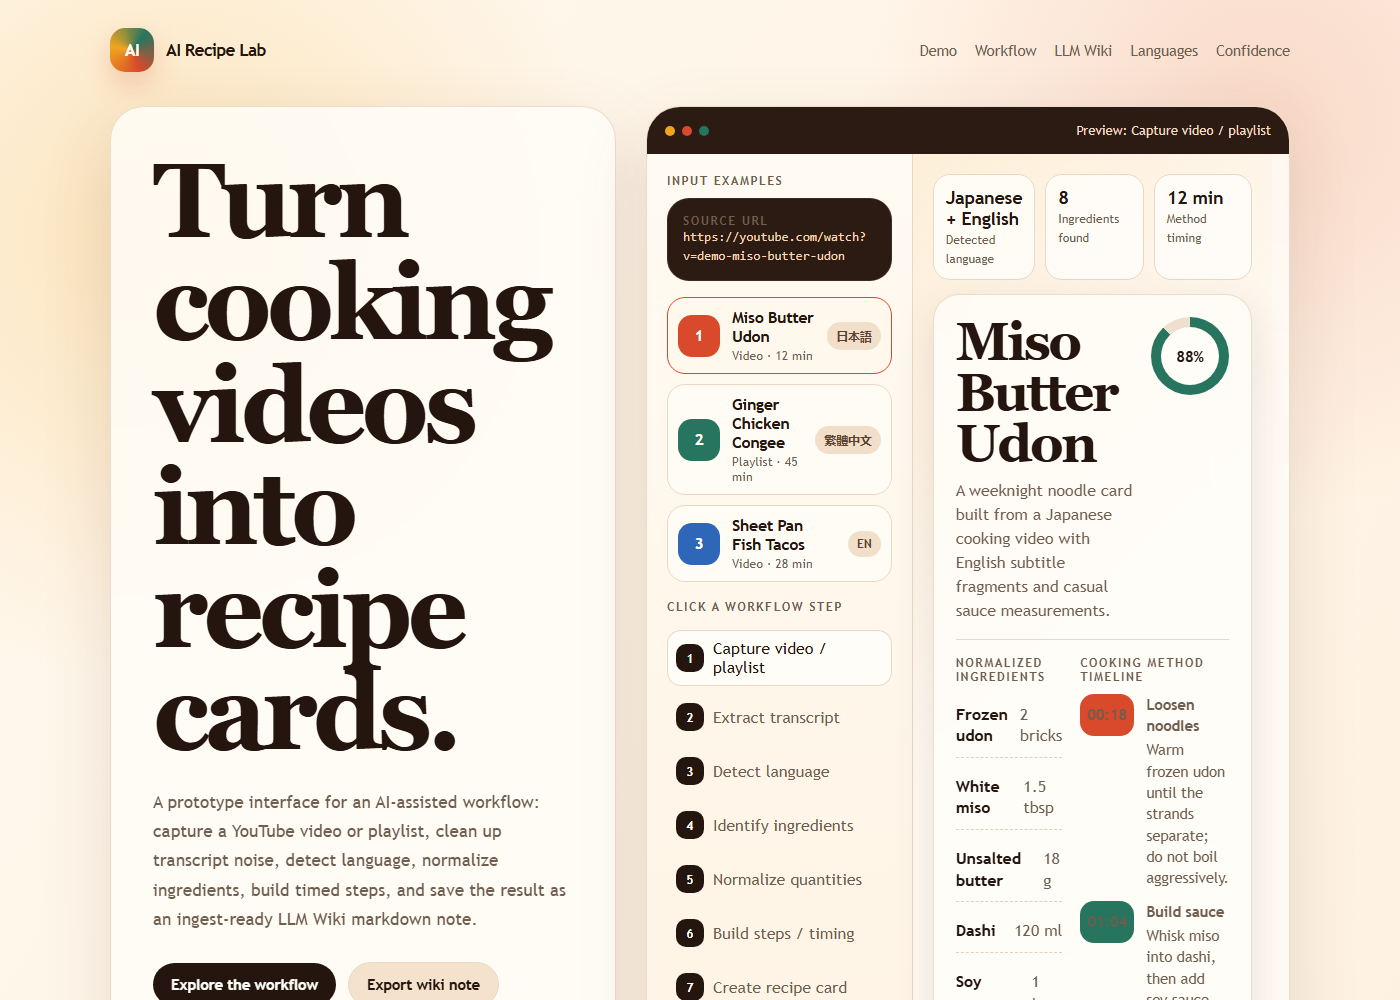
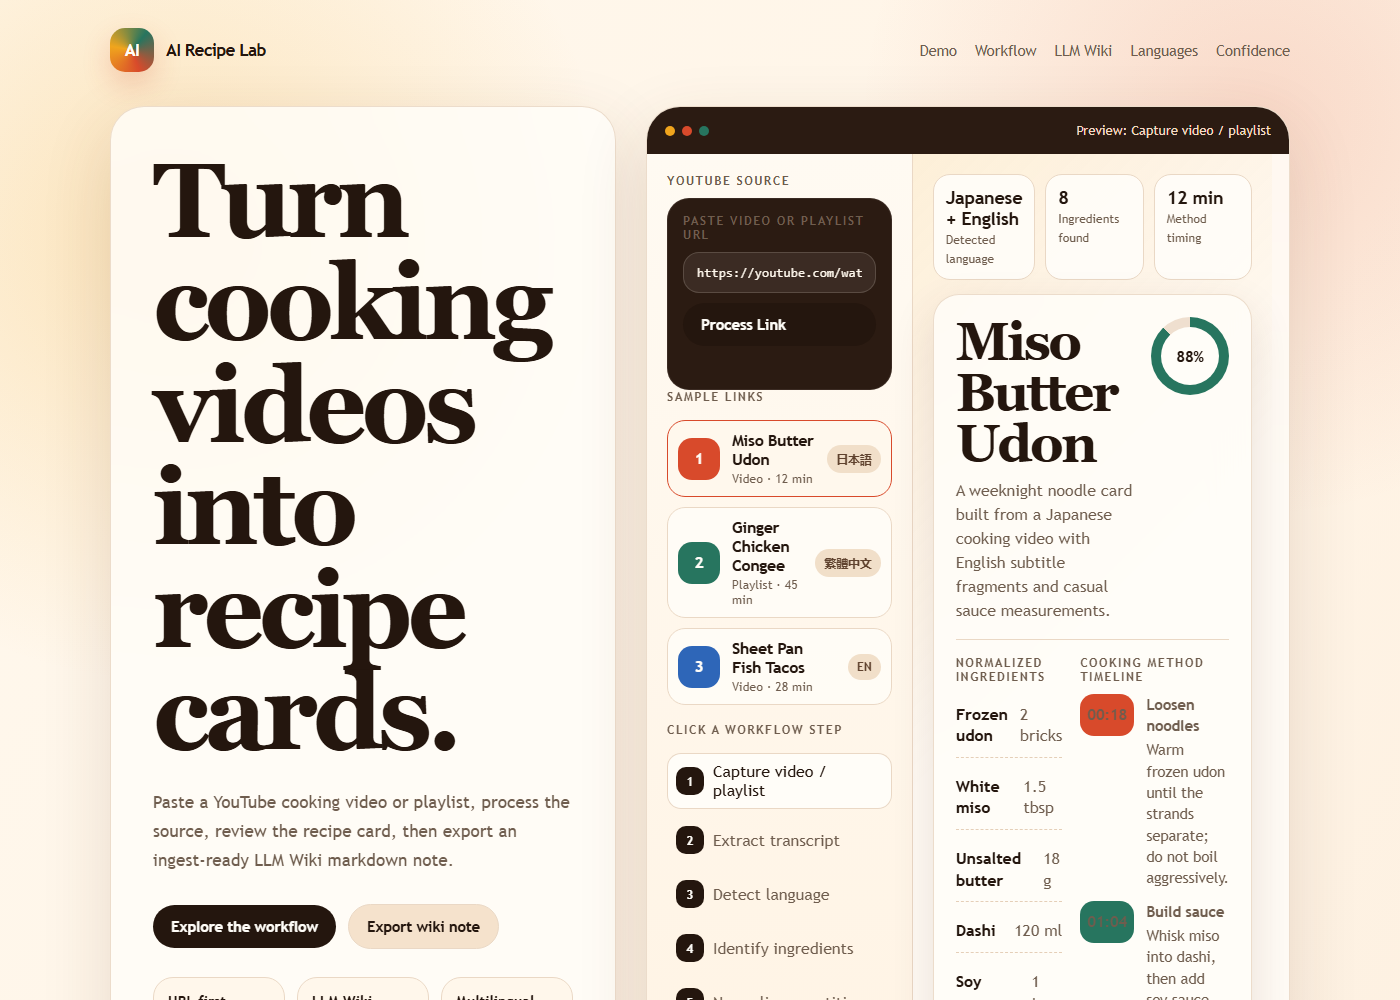
Make Recipe Lab URL driven

diff --git a/index.html b/index.html
@@ -293,6 +293,35 @@
       line-height: 1.45;
     }
 
+    .url-form {
+      display: grid;
+      gap: 10px;
+      margin-top: 10px;
+    }
+
+    .url-form input {
+      width: 100%;
+      border: 1px solid rgba(255, 248, 237, 0.16);
+      border-radius: 16px;
+      padding: 12px 13px;
+      color: #fff8ed;
+      background: rgba(255, 248, 237, 0.08);
+      outline: none;
+      font-family: "Consolas", "Courier New", monospace;
+      font-size: 0.82rem;
+    }
+
+    .url-form input:focus {
+      border-color: #f8d7b5;
+    }
+
+    .process-status {
+      min-height: 1.4em;
+      color: #f8d7b5;
+      font-size: 0.82rem;
+      line-height: 1.4;
+    }
+
     .example-switcher {
       display: grid;
       gap: 10px;
@@ -869,9 +898,8 @@
         <div class="hero-copy">
           <h1>Turn cooking videos into recipe cards.</h1>
           <p>
-            A prototype interface for an AI-assisted workflow: capture a YouTube video or playlist,
-            clean up transcript noise, detect language, normalize ingredients, build timed steps, and save
-            the result as an ingest-ready LLM Wiki markdown note.
+            Paste a YouTube cooking video or playlist, process the source, review the recipe card,
+            then export an ingest-ready LLM Wiki markdown note.
           </p>
           <div class="hero-actions">
             <a class="button" href="#workflow">Explore the workflow</a>
@@ -879,8 +907,8 @@
           </div>
           <div class="demo-note" aria-label="Project highlights">
             <div class="note-chip">
-              <strong>Static demo</strong>
-              <span>Sample outputs are hand-authored to show the interface concept. No real YouTube extraction runs here.</span>
+              <strong>URL first</strong>
+              <span>The main flow starts with a YouTube link, then simulates transcript extraction and recipe synthesis.</span>
             </div>
             <div class="note-chip">
               <strong>LLM Wiki ready</strong>
@@ -900,11 +928,16 @@
           </div>
           <div class="workspace">
             <aside class="input-panel">
-              <div class="control-label">Input examples</div>
+              <div class="control-label">YouTube source</div>
               <div class="input-card">
-                <div class="control-label">Source URL</div>
-                <div class="input-url" id="sourceUrl"></div>
+                <div class="control-label">Paste video or playlist URL</div>
+                <form class="url-form" id="sourceForm">
+                  <input id="sourceInput" type="url" autocomplete="off" spellcheck="false" aria-label="YouTube video or playlist URL">
+                  <button class="button" type="submit">Process Link</button>
+                  <div class="process-status" id="processStatus" aria-live="polite"></div>
+                </form>
               </div>
+              <div class="control-label">Sample links</div>
               <div class="example-switcher" aria-label="Recipe examples"></div>
 
               <div class="control-label">Click a workflow step</div>
@@ -1179,6 +1212,7 @@
 
     let selectedRecipe = recipes[0];
     let selectedStep = 0;
+    let processTimer = null;
 
     function slugify(value) {
       return value
@@ -1229,6 +1263,7 @@
         button.addEventListener("click", () => {
           selectedRecipe = recipes.find((recipe) => recipe.id === button.dataset.recipe);
           selectedStep = 0;
+          document.getElementById("processStatus").textContent = "Sample link loaded. Press Process Link to simulate extraction.";
           render();
         });
       });
@@ -1265,7 +1300,7 @@
     }
 
     function renderRecipe() {
-      document.getElementById("sourceUrl").textContent = selectedRecipe.url;
+      document.getElementById("sourceInput").value = selectedRecipe.url;
       document.getElementById("languageStat").textContent = selectedRecipe.language;
       document.getElementById("ingredientStat").textContent = selectedRecipe.ingredientCount;
       document.getElementById("timeStat").textContent = selectedRecipe.duration;
@@ -1312,6 +1347,42 @@
       document.getElementById("downloadMarkdown").dataset.filename = `${slugify(selectedRecipe.title)}.md`;
     }
 
+    function selectRecipeFromUrl(url) {
+      const normalized = url.toLowerCase();
+      if (normalized.includes("playlist") || normalized.includes("congee") || normalized.includes("粥")) {
+        return recipes.find((recipe) => recipe.id === "congee");
+      }
+      if (normalized.includes("taco") || normalized.includes("fish")) {
+        return recipes.find((recipe) => recipe.id === "tacos");
+      }
+      return recipes.find((recipe) => recipe.id === "miso");
+    }
+
+    function processSource(event) {
+      event.preventDefault();
+      const input = document.getElementById("sourceInput");
+      const status = document.getElementById("processStatus");
+      const url = input.value.trim();
+
+      if (!url) {
+        status.textContent = "Paste a YouTube video or playlist link first.";
+        return;
+      }
+
+      selectedStep = 0;
+      selectedRecipe = selectRecipeFromUrl(url);
+      selectedRecipe = { ...selectedRecipe, url };
+      status.textContent = "Processing link: transcript, language, ingredients, timing...";
+      render();
+
+      clearTimeout(processTimer);
+      processTimer = setTimeout(() => {
+        selectedStep = 7;
+        status.textContent = "Recipe card generated. Export the markdown note for LLM Wiki ingest.";
+        render();
+      }, 850);
+    }
+
     function render() {
       renderExamples();
       renderWorkflow();
@@ -1344,6 +1415,7 @@
     }
 
     render();
+    document.getElementById("sourceForm").addEventListener("submit", processSource);
     document.getElementById("copyMarkdown").addEventListener("click", copyMarkdown);
     document.getElementById("downloadMarkdown").addEventListener("click", downloadMarkdown);
   </script>

diff --git a/README.md b/README.md
@@ -6,116 +6,53 @@
   </a>
 </p>
 
-AI Recipe Lab started from a practical problem: cooking videos are easy to watch once and hard to use later.
+AI Recipe Lab is a prototype for turning YouTube cooking videos or playlists into recipe notes that can be ingested by LLM Wiki.
 
-A useful recipe might be buried inside a twenty-minute YouTube video, split across narration, subtitles, camera shots, pinned comments, and casual phrases like "a splash," "a little bit," or `少許`. Playlists make the problem bigger. They are great for discovery, but not great when you want to compare recipes, search ingredients, or cook from them without replaying the video.
-
-This project explores how AI can turn that messy media into something structured. The idea is to capture a video or playlist, read the transcript-like text, detect the language, pull out ingredients, normalize rough quantities, build a cooking timeline, and leave uncertainty visible for human review.
-
-The useful endpoint is not just a recipe card on screen. The useful endpoint is a structured markdown note that can be copied or downloaded, dropped into LLM Wiki's ingest inbox, searched later, compared with other recipes, and queried in plain language.
+The app starts with a YouTube link, simulates the extraction workflow, generates a recipe card, then lets the user copy or download an LLM Wiki-ready markdown file.
 
 ![AI Recipe Lab screenshot](docs/assets/ai-recipe-lab-main.png)
 
 ## Workflow
 
 ```text
-YouTube video / playlist
-        |
-        v
-Transcript + metadata capture
-        |
-        v
-Language detection
-  EN / 繁體中文 / 日本語 / mixed subtitles
-        |
-        v
-Ingredient extraction
-        |
-        v
-Quantity normalization
-  "a splash" / 少許 / visual-only amounts
-        |
-        v
-Cooking method timeline
-        |
-        v
-Recipe card
-        |
-        v
-Confidence notes + review gaps
-        |
-        v
-Copy / download markdown
-        |
-        v
-Drop into LLM Wiki raw inbox
-        |
-        v
-Indexed LLM Wiki note
+YouTube link
+  -> transcript + metadata
+  -> language detection
+  -> ingredients + quantities
+  -> cooking timeline
+  -> recipe card
+  -> copy/download markdown
+  -> LLM Wiki raw inbox
 ```
 
-## How AI Fits In
+## LLM Wiki Handoff
 
-AI is useful here because the input is not clean data. It has narration, incomplete subtitles, visual context, multilingual phrasing, and vague cooking language. The workflow uses AI as a translator between messy source material and a recipe card that a person can actually use.
+The generated markdown includes source URL, language, tags, confidence, ingredients, steps, and review gaps. It is meant to be dropped into an LLM Wiki ingest folder such as:
 
-The important part is not pretending the extraction is perfect. The interface keeps confidence and review gaps visible, so a human can quickly check uncertain quantities, missing temperatures, or steps that were shown on camera but not spoken clearly.
-
-## LLM Wiki Tie-In
-
-Without the ingest workflow, this project is mainly a prototype of the user experience and output format. It becomes useful when the generated card is exported into LLM Wiki as markdown.
-
-The page now includes two static handoff actions:
-
-- `Copy Markdown`: copies the selected recipe note.
-- `Download .md`: downloads an ingest-ready markdown file.
-
-That file can be dropped into an LLM Wiki raw inbox, for example `raw/inbox/recipes/`, where the normal ingest process can pick it up.
-
-Example note shape:
-
-```markdown
----
-source: https://youtube.com/watch?v=...
-language: Japanese + English
-tags: [recipes, cooking-video, udon, miso, weeknight]
-confidence: 88
-ingest_target: llm-wiki/raw/inbox/recipes
-review_gaps:
-  - Miso type inferred from video color and subtitles
-  - Heat level translated from "weak flame"
----
-
-# Miso Butter Udon
-
-Summary, ingredients, cooking timeline, source notes, and uncertainty checks.
+```text
+raw/inbox/recipes/
 ```
 
-Once saved this way, LLM Wiki can answer questions like:
+## Current Scope
 
-- "Which recipes use miso and take under 20 minutes?"
-- "Show me Traditional Chinese congee recipes with ginger."
-- "Which recipe cards still have low-confidence quantities?"
-- "Compare the udon recipes I saved from Japanese cooking videos."
+This public GitHub Pages version is frontend-only. It does not run `yt-dlp`, fetch live transcripts, call an LLM, or write directly into LLM Wiki.
+
+A real connected version would need a backend worker:
+
+```text
+URL -> yt-dlp/transcript -> LLM synthesis -> markdown -> LLM Wiki ingest
+```
 
 ## AI Prompt
 
-Short Codex prompt sequence used to shape the project:
-
 ```text
-Create a static GitHub Pages app called AI Recipe Lab.
-Show how AI turns YouTube cooking videos into recipe cards.
-Make the first screen screenshotable with a workflow graphic and recipe preview.
-Include multilingual examples: English, Traditional Chinese, and Japanese.
-Add clickable sample recipes, ingredients, cooking steps, and confidence gaps.
-Add copy/download actions that export the selected recipe as markdown for LLM Wiki ingest.
-Write a README that explains the problem, the AI workflow, and demo limits.
+Create a static app where a user pastes a YouTube cooking link.
+Simulate processing into ingredients, steps, confidence gaps, and a recipe card.
+Export the selected recipe as markdown for LLM Wiki ingest.
+Keep the UI screenshotable and multilingual.
 ```
 
-## Usage
-
-Open `index.html` directly in a browser, or serve the folder with any simple static server.
-
-Example:
+## Run Locally
 
 ```powershell
 cd "~/projects/ai-recipe-lab"
@@ -123,34 +60,3 @@ python -m http.server 8000
 ```
 
 Then open `http://localhost:8000`.
-
-## What It Demonstrates
-
-- Capturing a YouTube video or playlist URL as source material.
-- Extracting transcript-like text from noisy cooking narration.
-- Detecting language, including English, Traditional Chinese, Japanese, and mixed-language examples.
-- Identifying ingredients from casual speech.
-- Normalizing quantities such as "a splash," `少許`, and low-confidence inferred amounts.
-- Building a timed cooking method timeline from video moments.
-- Creating a clean recipe card with ingredients, summary, method, confidence, and review gaps.
-- Copying or downloading the structured output as an LLM Wiki markdown note.
-
-## Demo Data
-
-This is a static demo. The example recipes and outputs are hand-authored to show the user interface and product idea. The page does not call YouTube, scrape transcripts, run AI extraction, or store data.
-
-Included sample cards:
-
-- Miso Butter Udon: Japanese plus English subtitle fragments.
-- 薑絲雞粥 / Ginger Chicken Congee: Traditional Chinese cooking phrasing.
-- Sheet Pan Fish Tacos: English narration with loose quantities and visual timing.
-
-## Why It Exists
-
-The goal is to make cooking videos easier to reuse. Instead of leaving good recipes trapped inside video timelines, AI Recipe Lab shows a path from unstructured media to organized LLM Wiki notes: ingredients, method, timing, language context, and places where the AI needs a person to double-check.
-
-## Files
-
-- `index.html`: Single-page static app with embedded CSS and JavaScript.
-- `README.md`: Project purpose, usage, and demo explanation.
-- `.gitignore`: Local files to ignore if the parent process initializes git.
